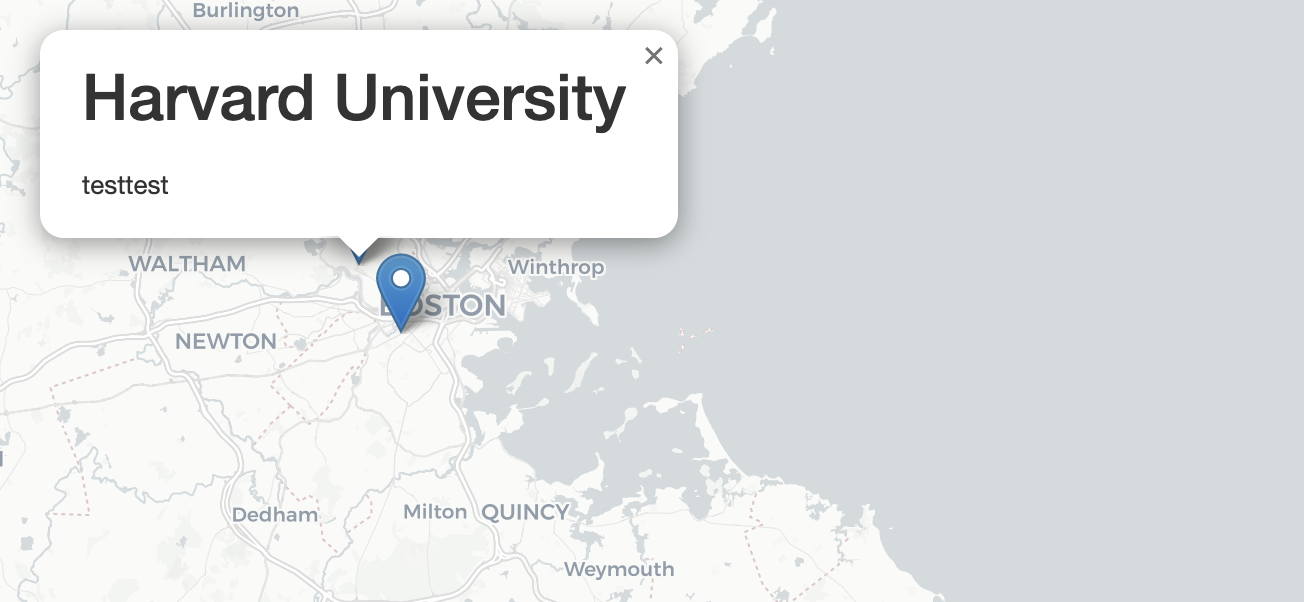
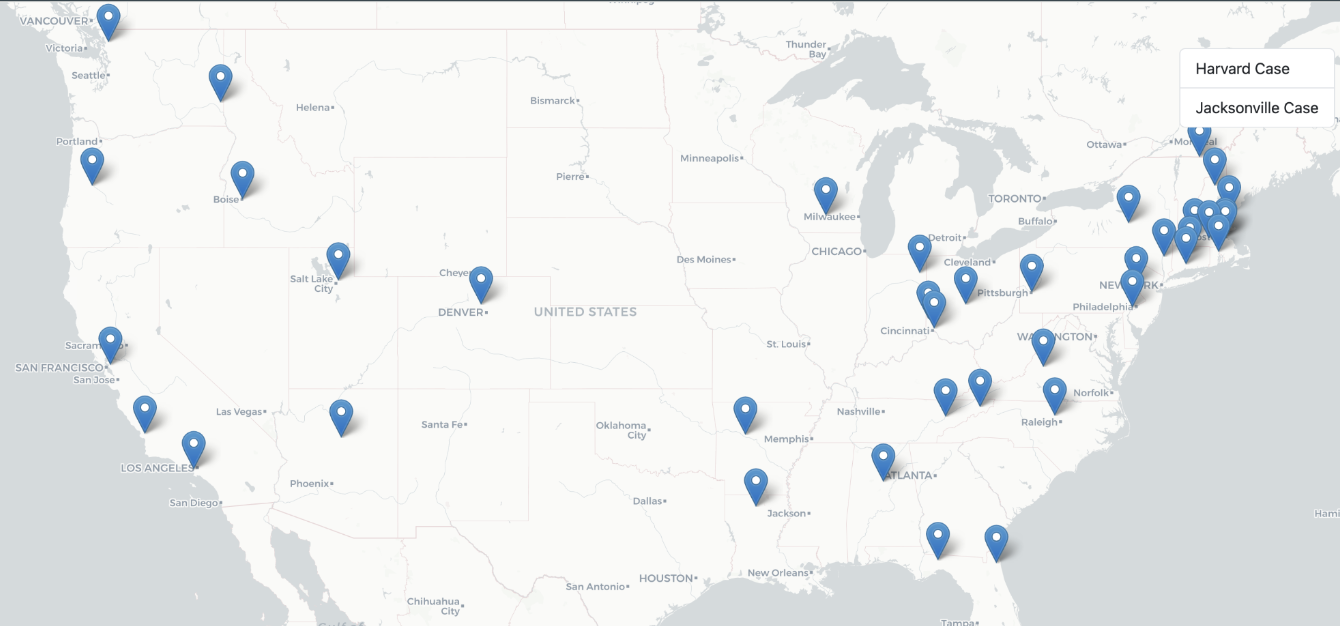
update screen shot and map

diff --git a/projects/zoomable-map/index.html b/projects/zoomable-map/index.html
@@ -33,8 +33,8 @@
     <div class="container-fluid">
         <div class="d-flex justify-content-end mt-5">
             <ul class="list-group sidebar">
-                <li id="btn-1" class="list-group-item" data-title="Harvard University" data-descr="testtest" data-lat="42.37537206022109" data-lng="-71.11790547724573" data-zoom="10">Case 1</li> </li>
-                <li id="btn-2" class="list-group-item" data-title="Jacksonville University" data-descr="jacksontest" data-lat="30.352012" data-lng="-81.603335" data-zoom="10">Case 2</li>
+                <li id="btn-1" class="list-group-item" data-title="Harvard University" data-descr="Women on the winning Harvard track team reported two coaches inappropriately massaged them. They reported developing panic attacks, depression, anxiety and eating disorders. One coach regularly threatened to choke students and once, put his hands around a woman's neck. Three coaches have been repeatedly reported. Two remain at Harvard. One coaches at a Bay Area public high school today." data-lat="42.37537206022109" data-lng="-71.11790547724573" data-zoom="10">Harvard Case</li>
+                <li id="btn-2" class="list-group-item" data-title="Jacksonville University" data-descr="Track and cross-country athlete Julia Pernsteiner died of suicide on November 8, 2021 at the age of 23. Her parents filed a lawsuit against the university and former coach Ron Grigg Pernsteiner claiming Persteiner was a victim of emotional abuse by Grigg, who ridiculed and mocked her. Grigg resigned and the school said they would provide mandatory training for coaches moving forward." data-lat="30.352012" data-lng="-81.603335" data-zoom="10">Jacksonville Case</li>
             </ul>
         </div>
     </div>
